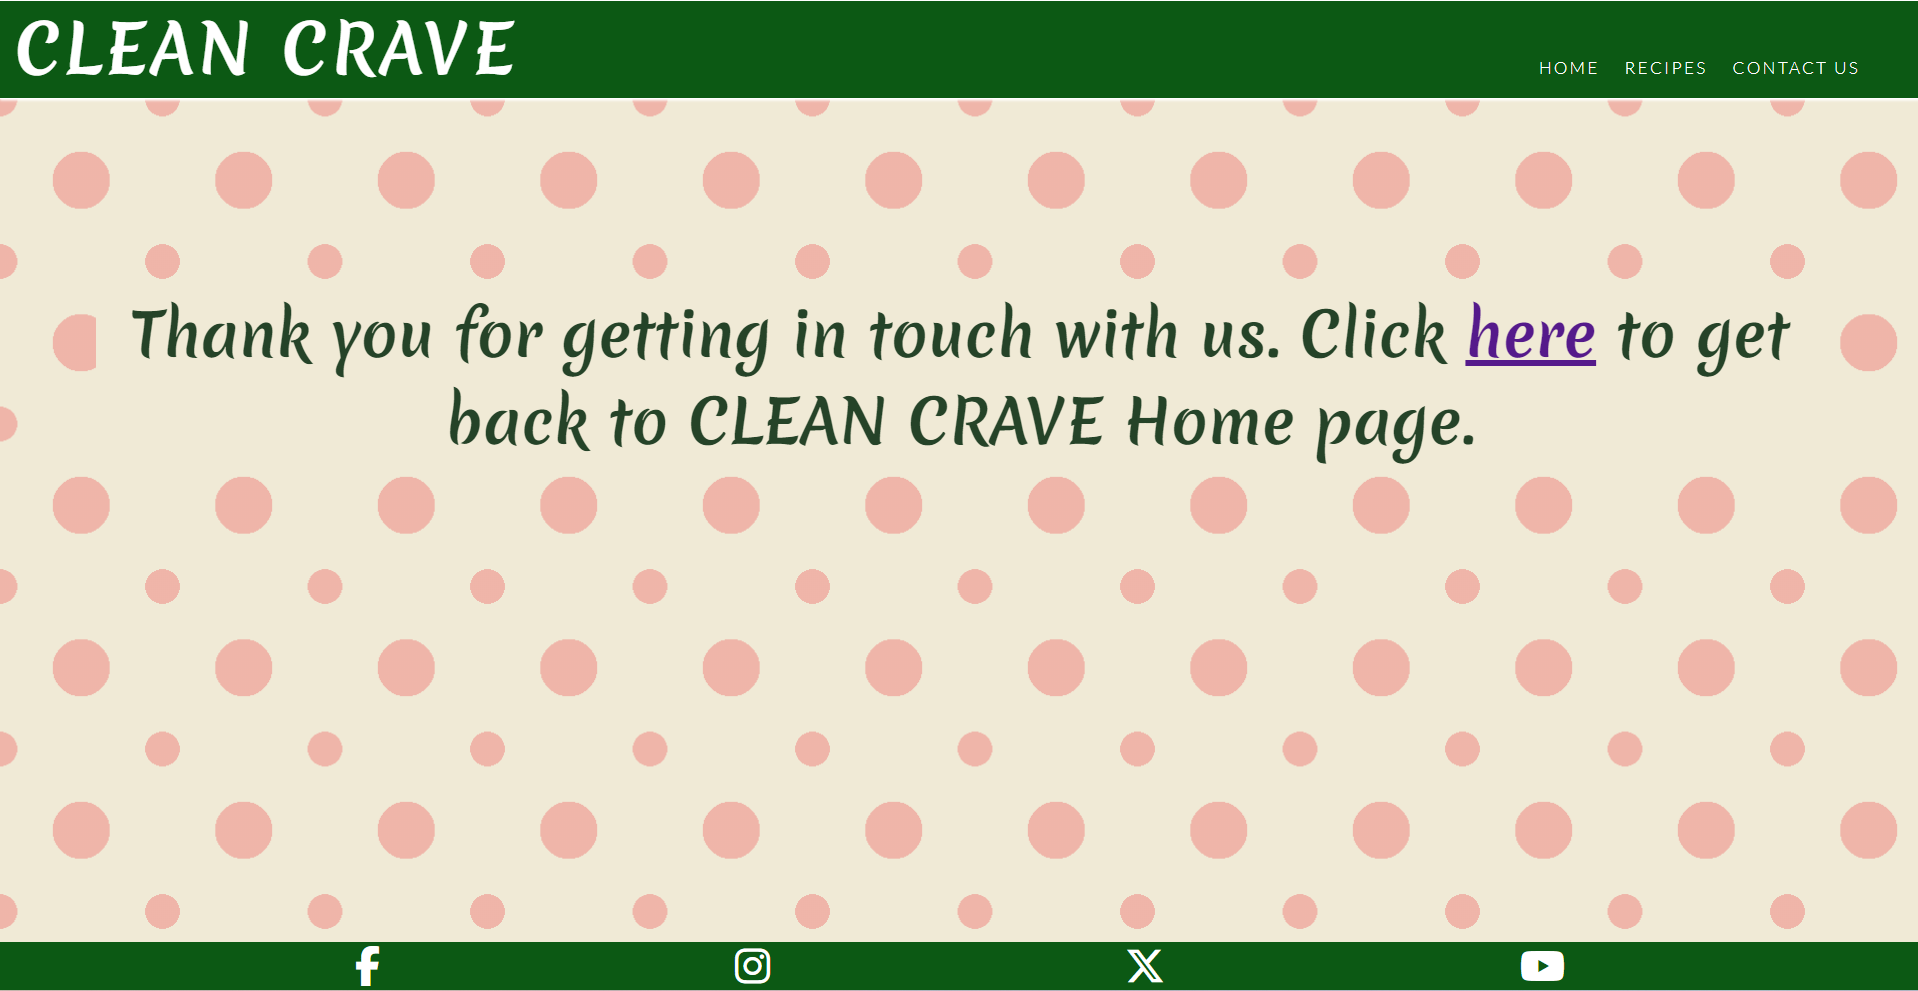
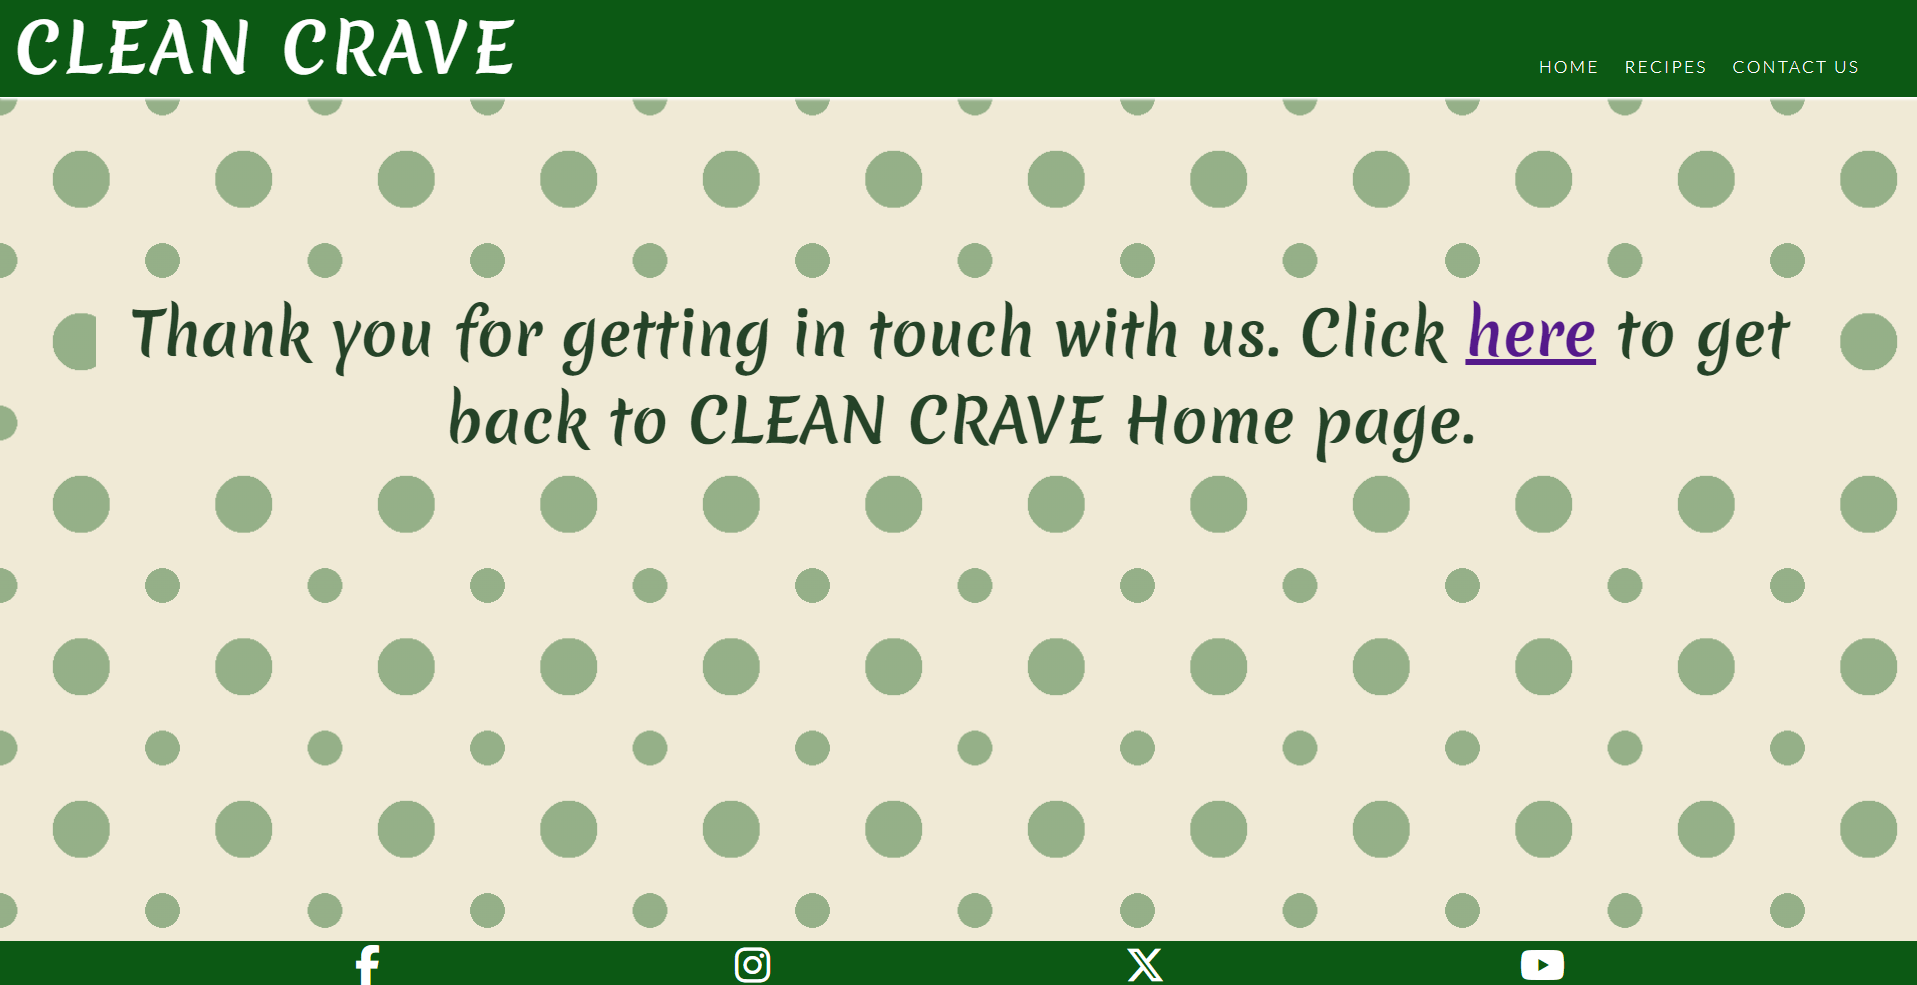
Add files to media and edit README.md

diff --git a/submittedenquiry.html b/submittedenquiry.html
@@ -48,7 +48,7 @@
     </header>
 
     <!-- Main content-->
-    <main class="polka-dot-pink">
+    <main class="polka-dot">
         <h2 id="successful-enquiry">
            Thank you for getting in touch with us. Click 
             <a href="index.html">here</a> 

diff --git a/README.md b/README.md
@@ -8,7 +8,7 @@ Welcome to <a href="https://bpstephanie.github.io/Clean_Crave/index.html">Clean 
 
 ## Wireframes
 
-The wireframes for Clean Crave were produced in <a href="https://balsamiq.com/?gad_source=1&gclid=CjwKCAjw5v2wBhBrEiwAXDDoJSMse7lgXFB9cNqU7zcdlO_VQcy3jXX1J7YQbar6kNPPKscVweNuhBoCV7MQAvD_BwE">Balsamiq</a>. There a wireframes for full desktop and mobile sizes. There are 2 alternate versions of the desktop Recipes page. 
+The wireframes for Clean Crave were produced in [Balsamiq](https://balsamiq.com). There a wireframes for full desktop and mobile sizes. There are 2 alternate versions of the desktop Recipes page. 
 
 Desktop wireframes:
 
@@ -24,7 +24,7 @@ Mobile wireframes:
 
 ## Site Structure
 
-Clean Crave website has three pages. The home page is the default landing page, recipes page and contact page are accessible through the navigation menu. There is another link to the recipes page through the call-to-action button on the landing page image. This is for users who want to go straight to the recipes section.
+Clean Crave website has three pages. The [home page](index.html) is the default landing page, [recipes page](recipes.html) and [contact page](contact.html) are accessible through the navigation menu. There is another link to the recipes page through the call-to-action button on the landing page image. This is for users who want to go straight to the recipes section.
 
 ## Design Choices
 
@@ -41,7 +41,7 @@ Clean Crave website has three pages. The home page is the default landing page, 
 
 ## Features 
 
-Clean Crave site is set up to be easy to use and friendlt. It contains features that the user will be familiar with, such as a navigation bar, burger icon with dropdown menu, contact forms and social media icons in the footer.
+Clean Crave site is set up to be easy to use and friendly. It contains features that the user will be familiar with, such as a navigation bar, burger icon with dropdown menu, contact forms and social media icons in the footer.
 
 ## Existing Features
 
@@ -57,7 +57,7 @@ Mobile navigation menu:
 ![Nav Bar Mobile](https://github.com/bpstephanie/Clean_Crave/blob/main/media/site-screenshots/navbar_mobile.png)
 ![Nav Bar Mobile Dropdown Menu](https://github.com/bpstephanie/Clean_Crave/blob/main/media/site-screenshots/navbar_mobile_dropdown.png)
 
-- __The landing page image__
+- __The Landing Page Image__
 
   - The landing page includes a photograph which changes depending on the size of the screen you are accessing the site on. Each have a text overlay with the premise of the site and a call-to-action button that leads them directly to the recipes page. 
   - This section introduces the user to Clean Crave with an image of people cooking healthy food to grab their attention.
@@ -66,13 +66,13 @@ Mobile navigation menu:
 ![Landing Page Tablet](https://github.com/bpstephanie/Clean_Crave/blob/main/media/site-screenshots/landingpage_tablet.png)
 ![Landing Page Desktop](https://github.com/bpstephanie/Clean_Crave/blob/main/media/site-screenshots/landingpage_desktop.png)
 
-- __Benefits section__
+- __The Benefits Section__
 
   - The Benefits section is located below the landing page image. It will allow the user to see the reasons why eating well helps them with their studies. It is intended to attract the user to want to see the recipes available and give more insight into why what we eat is important.
 
 ![Benefits Section](https://github.com/bpstephanie/Clean_Crave/blob/main/media/site-screenshots/benefits_section.png)
 
-- __Benefits section gallery / Brain food gallery__
+- __The Benefits Section Gallery / Brain Food Gallery__
   - Below the benefits section, the gallery is located. These images show some of the best foods for  brain function. They each have a text overlay stating what they are. This gallery is valuable to users who are visual learners. 
   - The images and text overlay are responsively styled for different screen sizes.
 
@@ -85,7 +85,7 @@ Mobile navigation menu:
 
 ![Footer](https://github.com/bpstephanie/Clean_Crave/blob/main/media/site-screenshots/footer.png)
 
-- __The Recipes page__
+- __The Recipes Page__
 
   - The recipes page will provide the user with recipes for breakfast, lunch and dinner. 
   - Each recipe has an image to give the user a visual representation of what the recipe makes.
@@ -93,7 +93,7 @@ Mobile navigation menu:
   - This page is responsive to different screen sizes.
 ![Recipes Page](https://github.com/bpstephanie/Clean_Crave/blob/main/media/site-screenshots/recipespage.png)  
 
-- __The Contact page__
+- __The Contact Page__
 
   - This page will allow the user to subscribe to a daily, weekly or monthly newsletter, depending on their preference, where they will be kept up to date with the newest recipes, tips and advice to staying on the healthy track. The user will be asked to submit their full name and email address. 
   - This page will also allow users to get in contact with Clean Crave. The user will be asked to submit their full name and email address, along with their enquiry.
@@ -101,14 +101,14 @@ Mobile navigation menu:
 
 ![Contact Page](https://github.com/bpstephanie/Clean_Crave/blob/main/media/site-screenshots/contactpage.png) 
 
-   __Newsletter page__
+   __Newsletter Page__
 
    - This page acknowledges the user has subscribed to the newsletter. For this project it validates the form only.
   - It provides a link back to the recipes page as well as having the navigation menu and social media links in the footer.
 
 ![Newsletter](https://github.com/bpstephanie/Clean_Crave/blob/main/media/site-screenshots/newsletter.png)
 
-  __The Submitted enquiry page__
+  __The Submitted Enquiry Page__
   
   - This page acknowledges the user has submitted an enquiry. For this project it validates the form only.
   - It provides a link back to the home page as well as having the navigation menu and social media links in the footer.
@@ -124,86 +124,84 @@ Mobile navigation menu:
 - A share button for users to share recipes with friends.
 
 ## Technologies Used
-- <a href="https://html.spec.whatwg.org/">HTML5</a>
-- <a href="https://www.w3.org/Style/CSS/Overview.en.html">CSS</a>
-- <a href="https://balsamiq.com/">Balsamiq</a>
-- <a href="https://github.com/">Github</a>
-- <a href="https://www.gitpod.io/">Gitpod</a>
+* [HTML5](https://html.spec.whatwg.org/) - provides the content and structure for the website.
+* [CSS](https://www.w3.org/Style/CSS/Overview.en.html) - provides the styling.
+* [Balsamiq](https://balsamiq.com/wireframes/) - used to create the wireframes.
+* [Gitpod](https://www.gitpod.io/#get-started) - used to deploy the website.
+* [Github](https://github.com/) - used to host and edit the website.
 
 ## Testing 
 
-Please refer <a href="TESTING.md">here</a> for more information about testing on Clean Crave.
-
-First testing on HTML W3C validator:
-
-Home page 
-![index.html validator testing](https://github.com/bpstephanie/Clean_Crave/blob/main/media/W3C-screenshots/html-home-page-1.png)
-![index.html validator testing cont..](https://github.com/bpstephanie/Clean_Crave/blob/main/media/W3C-screenshots/html-home-page-1.2.png)
-
-1. Removed the <a> tag from the button, added a form tag.
-2. Corrected <p1> to <p>
-3. Changed id=”benefits-point” to a class.
-4. Same as point 3
-5. Same as point 2
-6. Same as point 3
-7. Same as point 3
-8. Same as point 2
-
-Recipes page
-![recipes.html validator testing](https://github.com/bpstephanie/Clean_Crave/blob/main/media/W3C-screenshots/html-recipe-page-1.png)
-
-1. Added alt and aria-label attributes to image
-2. Removed <p1> tag
-3. Same as point 1
-4. Same as point 2
-5. Same as point 1
-6. Removed </p1> tag
-
-Contact page
-![contact.html validator testing](https://github.com/bpstephanie/Clean_Crave/blob/main/media/W3C-screenshots/html-contact-page-1.png)
-![contact.html validator testing cont..](https://github.com/bpstephanie/Clean_Crave/blob/main/media/W3C-screenshots/html-contact-page-1.2.png)
-
-1. Changed id=”first-name” to “first-name-N” for the Newsletter form.
-2. Changed id=”first-name” to “first-name-E” for the Enquiry form.
-3. Changed id=”last-name” to “last-name-N” for the Newsletter form.
-4. Changed id=”last-name” to “last-name-E” for the Enquiry form.
-5. Changed id=”email-address” to “email-address-N” for the Newsletter form.
-6. Changed id=”email-address” to “email-address-E” for the Enquiry form.
-7. Changed rows=”auto” to rows=”10”
-8. Changed cols=”auto” to cols=”20”
-
-
-
-
-### Validator Testing 
-
-- HTML
-  - No errors were returned when passing through the official [W3C validator](https://validator.w3.org/nu/?doc=https%3A%2F%2Fcode-institute-org.github.io%2Flove-running-2.0%2Findex.html)
-- CSS
-  - No errors were found when passing through the official [(Jigsaw) validator](https://jigsaw.w3.org/css-validator/validator?uri=https%3A%2F%2Fvalidator.w3.org%2Fnu%2F%3Fdoc%3Dhttps%253A%252F%252Fcode-institute-org.github.io%252Flove-running-2.0%252Findex.html&profile=css3svg&usermedium=all&warning=1&vextwarning=&lang=en#css)
-
-### Unfixed Bugs
+Please refer [**_here_**](TESTING.md) for more information about testing on Clean Crave.
 
 ## Deployment
 
-This section should describe the process you went through to deploy the project to a hosting platform (e.g. GitHub) 
+### **To Deploy the Project**
 
-- The site was deployed to GitHub pages. The steps to deploy are as follows: 
-  - In the GitHub repository, navigate to the Settings tab 
-  - From the source section drop-down menu, select the Master Branch
-  - Once the master branch has been selected, the page will be automatically refreshed with a detailed ribbon display to indicate the successful deployment. 
+This site was deployed to GitHub pages. The steps to deploy are as follows:
 
-The live link can be found here - https://code-institute-org.github.io/love-running-2.0/index.html 
+  1. In the GitHub repository, navigate to the Settings tab 
+  2. Next, navigate to the Pages tab on the left hand side.
+  3. Under Source, select main from the Branch dropdown menu. Then click save.
+  4. Once the main branch has been selected, the page will automatically be refreshed with a detailed ribbon display to indicate the successful deployment. 
 
+![How To Deploy](https://github.com/bpstephanie/Clean_Crave/blob/main/media/deploy_1.png)
+
+The live link can be found here - https://bpstephanie.github.io/Clean_Crave/recipes.html
+
+### **To Fork the Project**
+
+A copy of the GitHub Repository can be made by forking the GitHub account. This copy can be viewed and changes can be made to the copy without affecting the original repository. The steps to fork the repository are as follows:
+
+  1. Log in to GitHub and locate the repository.
+  2. On the right hand side of the page, inline with the repository name, is a button called 'Fork', click on the button to create a copy of the original repository in your GitHub Account.
+  
+![How To Fork](https://github.com/bpstephanie/Clean_Crave/blob/main/media/fork_1.png)
+
+### **To Clone the Project**
+
+The steps to clone a project from GitHub are as follows:
+
+  1. Under the repository’s name, click on the code tab.
+  2. Copy the URL under the Clone with HTTPS section.
+  3. In an IDE of your choice, open Git Bash.
+  4. Change the current working directory to the location of where the cloned directory will be made.
+  5. Type 'git clone' then paste the URL copied from GitHub.
+  6. Upon pressing enter, the local clone will be created.
+
+![How To Clone](https://github.com/bpstephanie/Clean_Crave/blob/main/media/clone_1.png)
 
 ## Credits 
 
-### Content 
+Wireframes: [Balsamiq](https://balsamiq.com)
+Favicon: [Favicon](https://favicon.io/)
+Fonts: [Google Fonts](https://fonts.google.com/)
+Icons: [Fontawesome](https://fontawesome.com/)
+Colour Palettes: [Coolors](https://www.bbcgoodfood.com/)
+Mockup: [Techsini](https://techsini.com/)
+Chrome for Developers: [Dev Tools](https://developer.chrome.com/docs/devtools)
 
-- The text for the Home page was taken from Wikipedia Article A
-- Instructions on how to implement form validation on the Sign Up page was taken from [Specific YouTube Tutorial](https://www.youtube.com/)
-- The icons in the footer were taken from [Font Awesome](https://fontawesome.com/)
+The polka-dot background was learned from [30 Seconds of Code](https://www.30secondsofcode.org/css/s/polka-dot-pattern/). 
+Instructions on how to implement the text overlay on the brain food gallery was taken from [Banner Bear](https://www.bannerbear.com/blog/)
+
+Help with flexbox came from [CSS Tricks](https://css-tricks.com/)
+
+Help with troubleshooting came from [Stack Overflow](https://stackoverflow.com/)
+
+### Content
+
+The information on the home page is from [Nottingham.ac.uk](https://www.nottingham.ac.uk/currentstudents/wellbeing/healthyu/index.aspx) and [Sleep Foundation](https://www.sleepfoundation.org/nutrition).
+
+The recipes on the recipes page are from [BBC Good Food](https://www.bbcgoodfood.com/) and [Eating Well](https://www.eatingwell.com/)
 
 ### Media
 
-- The photos used..
+The images are from [Pexels](https://www.pexels.com/), [Pixabay](https://pixabay.com/) and [BBC Good Food](https://www.bbcgoodfood.com/).
+
+The images were optimised with [Tinypng](https://tinypng.com/).
+
+## Acknowledgements
+
+Clean Crave has been completed as a Portfolio 1 Project, part of the Full Stack Software Developer Diploma at Code Institute. I would like to thank my Code Institue mentor,  Precious Ijege, the Slack community, and everyone at Code Institute for their help and support. 
+
+Stephanie Bell 2021.

diff --git a/TESTING.md b/TESTING.md
@@ -1,0 +1,46 @@
+First testing on HTML W3C validator:
+
+Home page 
+![index.html validator testing](https://github.com/bpstephanie/Clean_Crave/blob/main/media/W3C-screenshots/html-home-page-1.png)
+![index.html validator testing cont..](https://github.com/bpstephanie/Clean_Crave/blob/main/media/W3C-screenshots/html-home-page-1.2.png)
+
+1. Removed the <a> tag from the button, added a form tag.
+2. Corrected <p1> to <p>
+3. Changed id=”benefits-point” to a class.
+4. Same as point 3
+5. Same as point 2
+6. Same as point 3
+7. Same as point 3
+8. Same as point 2
+
+Recipes page
+![recipes.html validator testing](https://github.com/bpstephanie/Clean_Crave/blob/main/media/W3C-screenshots/html-recipe-page-1.png)
+
+1. Added alt and aria-label attributes to image
+2. Removed <p1> tag
+3. Same as point 1
+4. Same as point 2
+5. Same as point 1
+6. Removed </p1> tag
+
+Contact page
+![contact.html validator testing](https://github.com/bpstephanie/Clean_Crave/blob/main/media/W3C-screenshots/html-contact-page-1.png)
+![contact.html validator testing cont..](https://github.com/bpstephanie/Clean_Crave/blob/main/media/W3C-screenshots/html-contact-page-1.2.png)
+
+1. Changed id=”first-name” to “first-name-N” for the Newsletter form.
+2. Changed id=”first-name” to “first-name-E” for the Enquiry form.
+3. Changed id=”last-name” to “last-name-N” for the Newsletter form.
+4. Changed id=”last-name” to “last-name-E” for the Enquiry form.
+5. Changed id=”email-address” to “email-address-N” for the Newsletter form.
+6. Changed id=”email-address” to “email-address-E” for the Enquiry form.
+7. Changed rows=”auto” to rows=”10”
+8. Changed cols=”auto” to cols=”20”
+
+### Validator Testing 
+
+- HTML
+  - No errors were returned when passing through the official [W3C validator](https://validator.w3.org/nu/?doc=https%3A%2F%2Fcode-institute-org.github.io%2Flove-running-2.0%2Findex.html)
+- CSS
+  - No errors were found when passing through the official [(Jigsaw) validator](https://jigsaw.w3.org/css-validator/validator?uri=https%3A%2F%2Fvalidator.w3.org%2Fnu%2F%3Fdoc%3Dhttps%253A%252F%252Fcode-institute-org.github.io%252Flove-running-2.0%252Findex.html&profile=css3svg&usermedium=all&warning=1&vextwarning=&lang=en#css)
+
+### Unfixed Bugs
